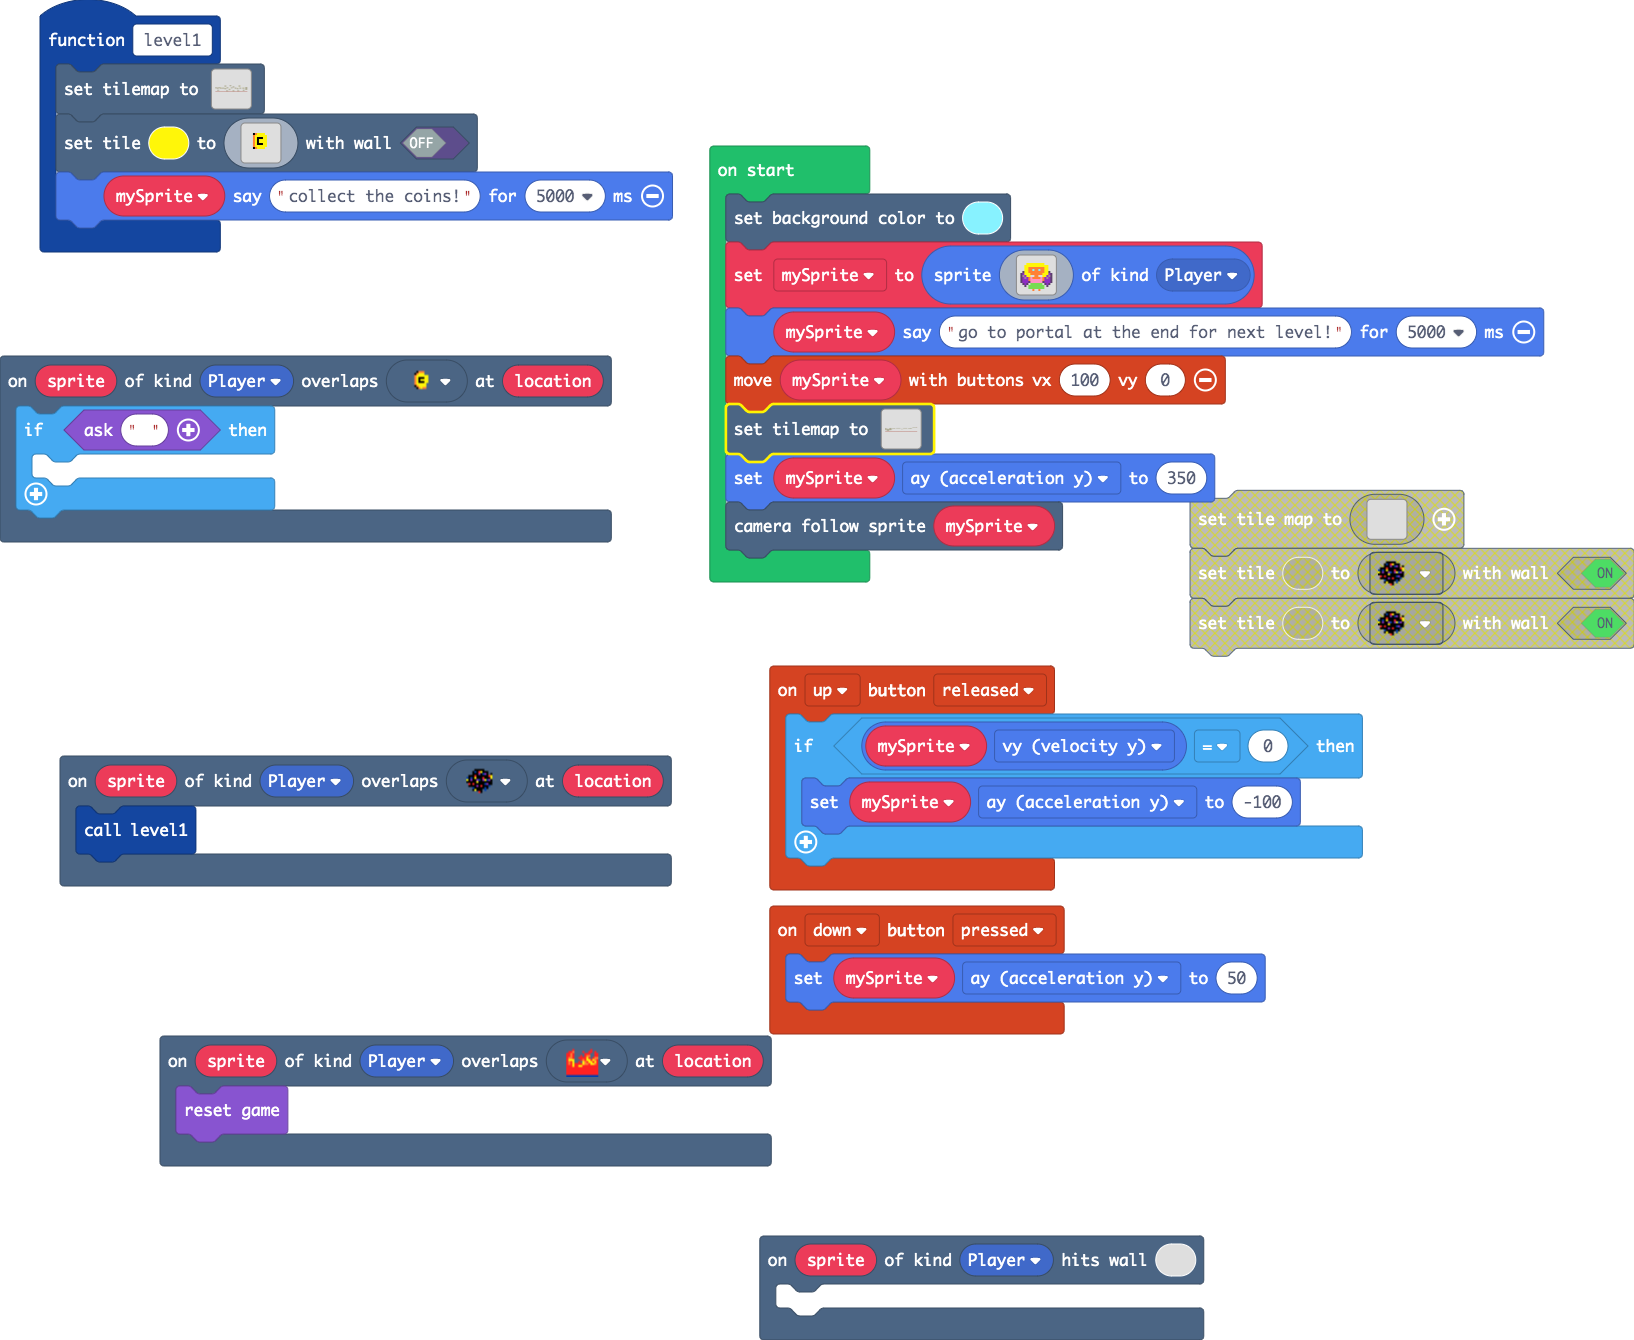
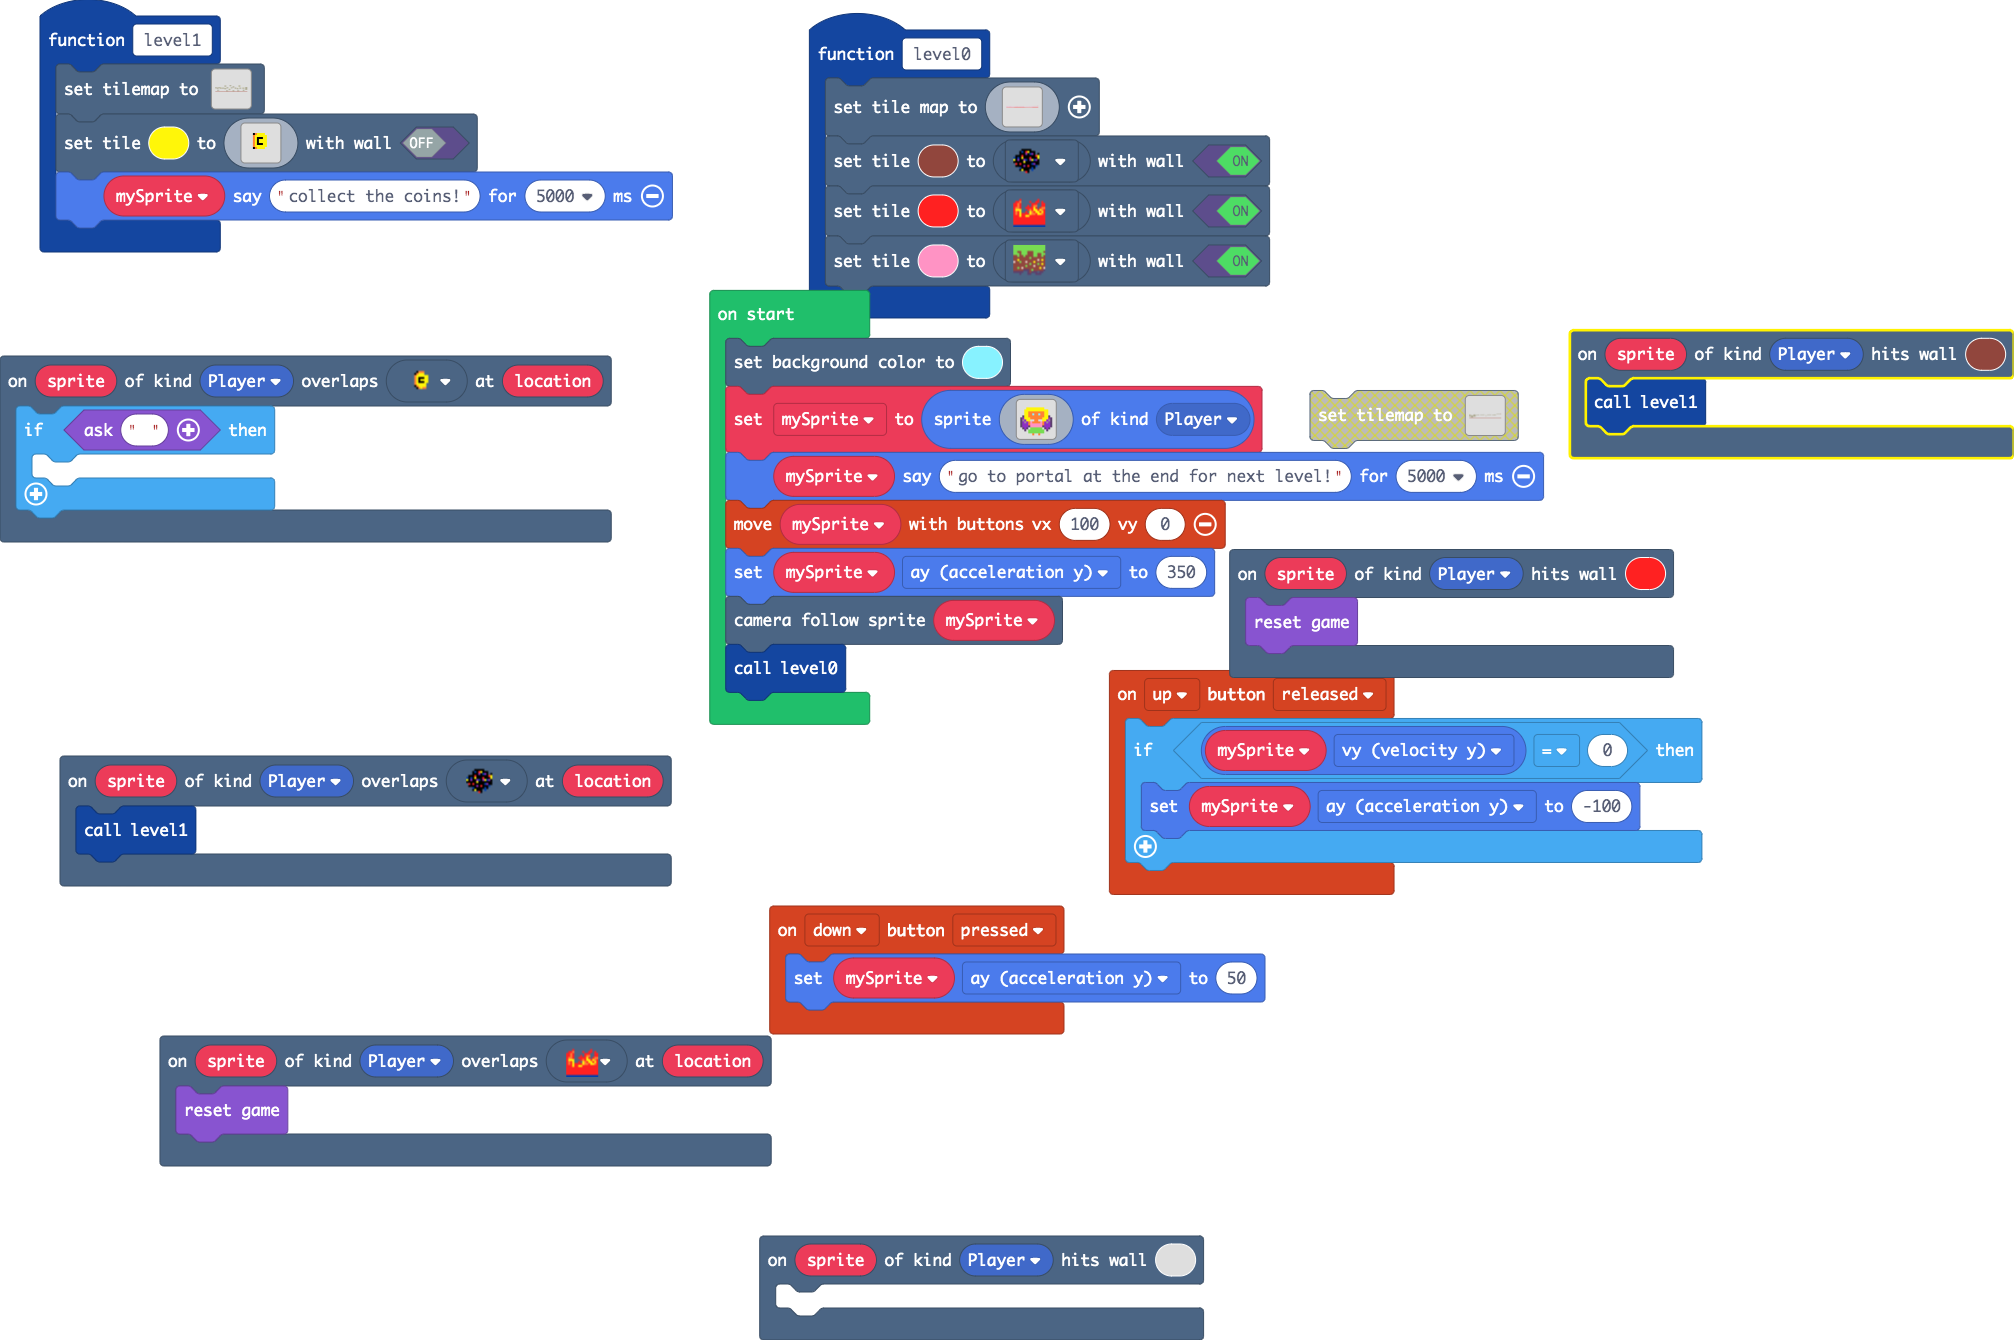
Update main.blocks, main.ts

diff --git a/main.ts b/main.ts
@@ -176,6 +176,21 @@ controller.up.onEvent(ControllerButtonEvent.Released, function () {
         mySprite.ay = -100
     }
 })
+function level0 () {
+    scene.setTileMap(img`
+. . . . . . . . . . . . . . . . . . . . . . . . . . . . . . . . . . . . . . . . . . . . . . . . . . . . . . . . . . . . . . . . . . . . . . . . . . . . . . . . . . . . . . . . . . . . . . . . . . . . 
+. . . . . . . . . . . . . . . . . . . . . . . . . . . . . . . . . . . . . . . . . . . . . . . . . . . . . . . . . . . . . . . . . . . . . . . . . . . . . . . . . . . . . . . . . . . . . . . . . . . . 
+. . . . . . . . . . . . . . . . . . . . . . . . . . . . . . . . . . . . . . . . . . . . . . . . . . . . . . . . . . . . . . . . . . . . . . . . . . . . . . . . . . . . . . . . . . . . . . . . . . . e 
+. . . . . . . . . . . . . . e . . . . . . . . . . . . . . . . . . . . . . . . . . . . . . . . . . . . . . . . . . . . . . . . . . . . . . . . . . . . . . . . . . . . . . 3 3 3 3 3 3 3 3 3 3 3 3 3 3 3 
+3 3 3 3 3 . . . 3 3 3 3 3 . 3 3 3 . . . . . . . . . . . . . . . . . . . 3 3 . . . 3 3 3 3 . . . . . . . . . 3 3 . . . . . 3 3 . . . . . . . . . . . 3 . 3 3 3 3 3 3 3 3 3 . . . . . . . . . . . . . 3 3 
+3 3 3 3 3 . . . 3 3 3 3 3 . 3 3 3 . . 3 3 3 3 3 . . 3 3 3 3 3 3 3 3 3 3 3 . . . . . . . . 3 3 3 3 3 3 3 3 3 3 . . . . . 3 . . 3 3 3 3 3 3 3 3 3 3 3 3 . . . . . . . . . . . . . . . . . . . . . . . . . 
+3 3 3 3 3 . . . 3 3 3 3 3 . 3 3 3 . . . . . . . 2 2 2 2 2 2 2 2 2 2 2 2 2 2 2 2 2 2 2 2 2 2 2 2 2 2 2 2 2 2 2 2 2 . . . . . . . . . . . . . . . . . . . . . . . . . 2 2 2 2 2 2 2 2 2 2 2 2 2 2 2 2 2 2 
+2 2 2 2 2 2 2 2 2 2 2 2 2 2 2 2 2 2 2 2 2 2 2 2 2 2 2 2 2 2 2 2 2 2 2 2 2 2 2 2 2 2 2 2 2 2 2 2 2 2 2 2 2 2 2 2 2 2 2 2 2 2 2 2 2 2 2 2 2 2 2 2 2 2 2 2 2 2 2 2 2 2 2 2 2 2 2 2 2 2 2 2 2 2 2 2 2 2 2 2 
+`)
+    scene.setTile(14, myTiles.tile4, true)
+    scene.setTile(2, myTiles.tile3, true)
+    scene.setTile(3, myTiles.tile1, true)
+}
 function level1 () {
     tiles.setTilemap(tiles.createTilemap(
[1 lines of base64/hex data omitted]
@@ -223,6 +238,9 @@ function level1 () {
 controller.down.onEvent(ControllerButtonEvent.Pressed, function () {
     mySprite.ay = 50
 })
+scene.onHitTile(SpriteKind.Player, 14, function (sprite) {
+    level1()
+})
 scene.onOverlapTile(SpriteKind.Player, myTiles.tile5, function (sprite, location) {
     if (game.ask("")) {
     	
@@ -236,6 +254,9 @@ scene.onOverlapTile(SpriteKind.Player, myTiles.tile4, function (sprite, location
 })
 scene.onHitTile(SpriteKind.Player, 0, function (sprite) {
 	
+})
+scene.onHitTile(SpriteKind.Player, 2, function (sprite) {
+    game.reset()
 })
 let mySprite: Sprite = null
 scene.setBackgroundColor(9)
@@ -259,28 +280,6 @@ c a a a c 3 3 3 3 3 3 c a a a c
 `, SpriteKind.Player)
 mySprite.say("go to portal at the end for next level!", 5000)
 controller.moveSprite(mySprite, 100, 0)
-tiles.setTilemap(tiles.createTilemap(
[1 lines of base64/hex data omitted]
-            img`
-. . . . . . . . . . . . . . . . . . . . . . . . . . . . . . . . . . . . . . . . . . . . . . . . . . . . . . . . . . . . . . . . . . . . . . . . . . . 
-. . . . . . . . . . . . . . . . . . . . . . . . . . . . . . . . . . . . . . . . . . . . . . . . . . . . . . . . . . . . . . . . . . . . . . . . . . . 
-. . . . . . . . . . . . . . . . . . . . . . . . . . . . . . . . . . . . . . . . . . . . . . . . . . . . . . . . . . . . . . . . . . . . . . . . . . . 
-. . . . . . . . . . . . . . . . . . . . . . . . . . . . . . . . . . . . . . . . . . . . . . . . . . . . . . . . . . . . . . . . . . . . . . . . . . . 
-. . . . . . . . . . . . . . . . . . . . . . . . . . . . . . . . . . . . . . . . . . . . . . . . . . . . . . . . . . . . . . . . . . . . . . . . . . 2 
-. . . . . . . . . . . . . . . . . . . . . . . . . . . . . . . . . . . . . . . . . . . . . . . . . . . . . . . . . . . . . . . . . . . . . . . 2 2 2 2 
-. . . . . . . . . . . . . . . . . . . . . . . . . . . . . . . . . . . . . . . . . . . . . . . . . . . . . . . . . . . . . . . . 2 2 2 2 2 2 . . . . . 
-2 2 2 . . . . . . . 2 2 2 2 2 . . . . . . . . . . . 2 2 2 2 2 2 2 2 2 2 . . . . . . 2 2 2 2 2 2 2 2 2 2 . . . . . . . 2 2 2 2 . . . . . . . . . . . . 
-2 2 2 . . . . . . . 2 2 2 2 2 . . 2 2 2 2 2 2 2 . . . . . . . . . . . . . . . . . . . . . . . . . . . . . . 2 2 2 2 2 2 . . . . . . . . . . . . . . . 
-2 2 2 . 2 2 2 2 2 . 2 2 2 2 2 . . . . . . . . . . . . . . . . . . . . . . . 2 2 2 . . . . . . . . . . . . . . . . . . . . . . . . . . . . . . . . . . 
-2 2 2 . 2 2 2 2 2 . 2 2 2 2 2 . . . . . . . . . . . . . . . . . . . . . . . . . . . . . . . . . . . . . . . . . . . . . . . . . . . . . . . . . . . . 
-2 2 2 . 2 2 2 2 2 . 2 2 2 2 2 . . . . . . . . . . . . . . . . . . . . . . . . . . . . . . . . . . . . . . . . . . . . . . . . . . . . . . . . . . . . 
-. . . . 2 2 2 2 2 . . . . . . . . . . . . . . . . . . . . . . . . . . . . . . . . . . . . . . . . . . . . . . . . . . . . . . . . . . . . . . . . . . 
-. . . . 2 2 2 2 2 . . . . . . . . . . . . . . . . . . . . . . . . . . . . . . . . . . . . . . . . . . . . . . . . . . . . . . . . . . . . . . . . . . 
-. . . . . . . . . . . . . . . . . . . . . . . . . . . . . . . . . . . . . . . . . . . . . . . . . . . . . . . . . . . . . . . . . . . . . . . . . . . 
-. . . . . . . . . . . . . . . . . . . . . . . . . . . . . . . . . . . . . . . . . . . . . . . . . . . . . . . . . . . . . . . . . . . . . . . . . . . 
-`,
-            [myTiles.tile0,myTiles.tile1,myTiles.tile2,myTiles.tile3,myTiles.tile4,myTiles.tile5,myTiles.tile6,myTiles.tile7,myTiles.tile8],
-            TileScale.Sixteen
-        ))
 mySprite.ay = 350
 scene.cameraFollowSprite(mySprite)
+level0()
